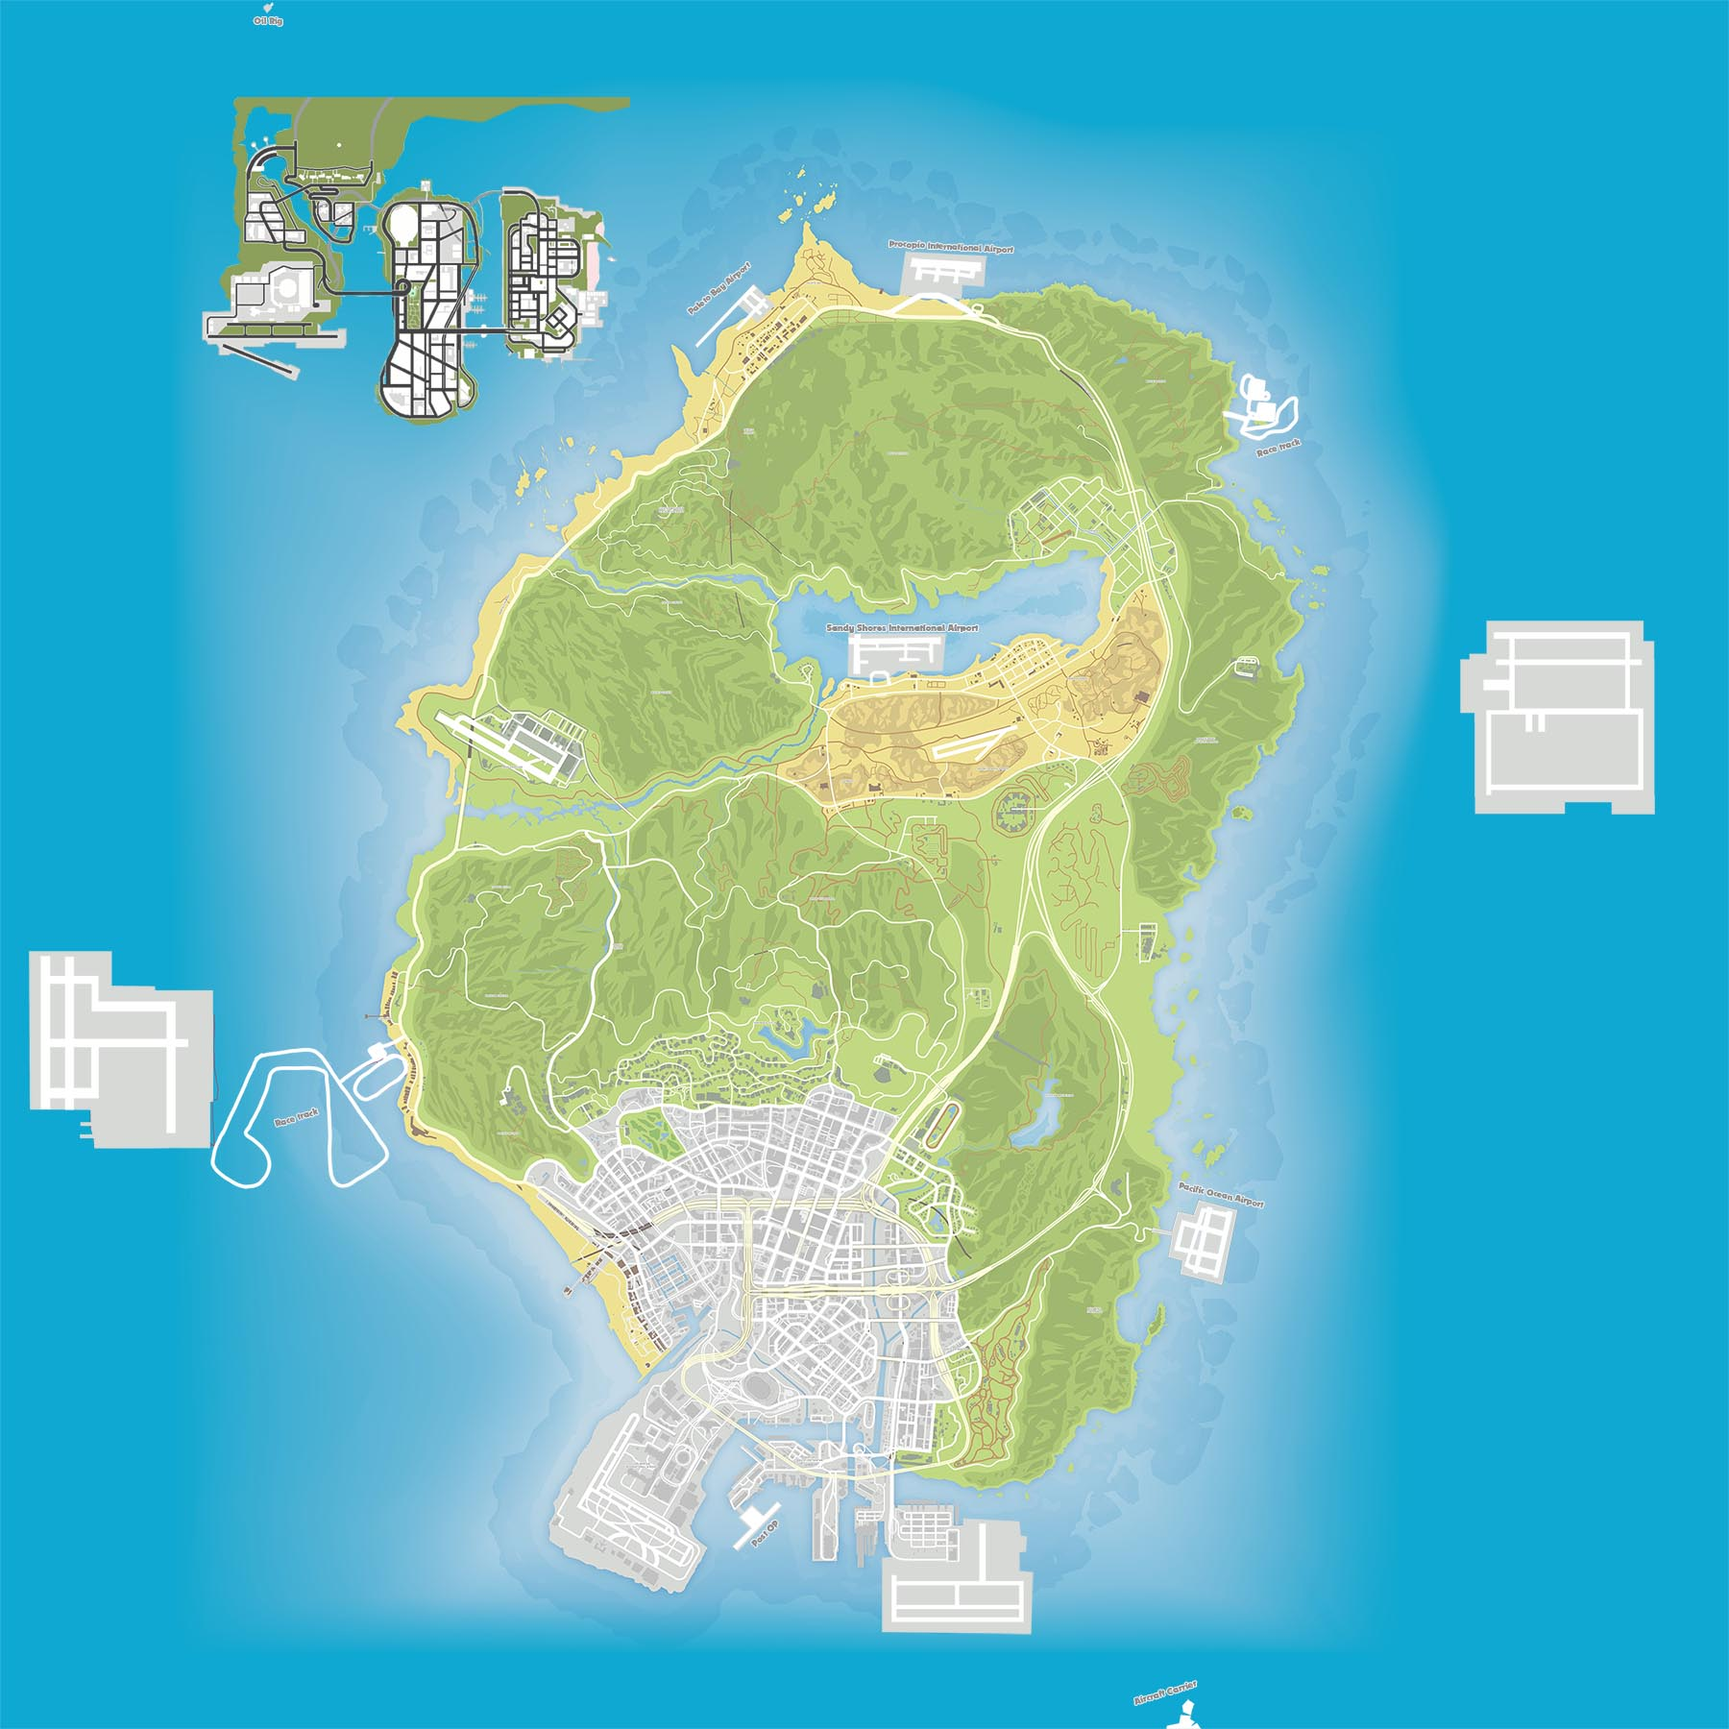
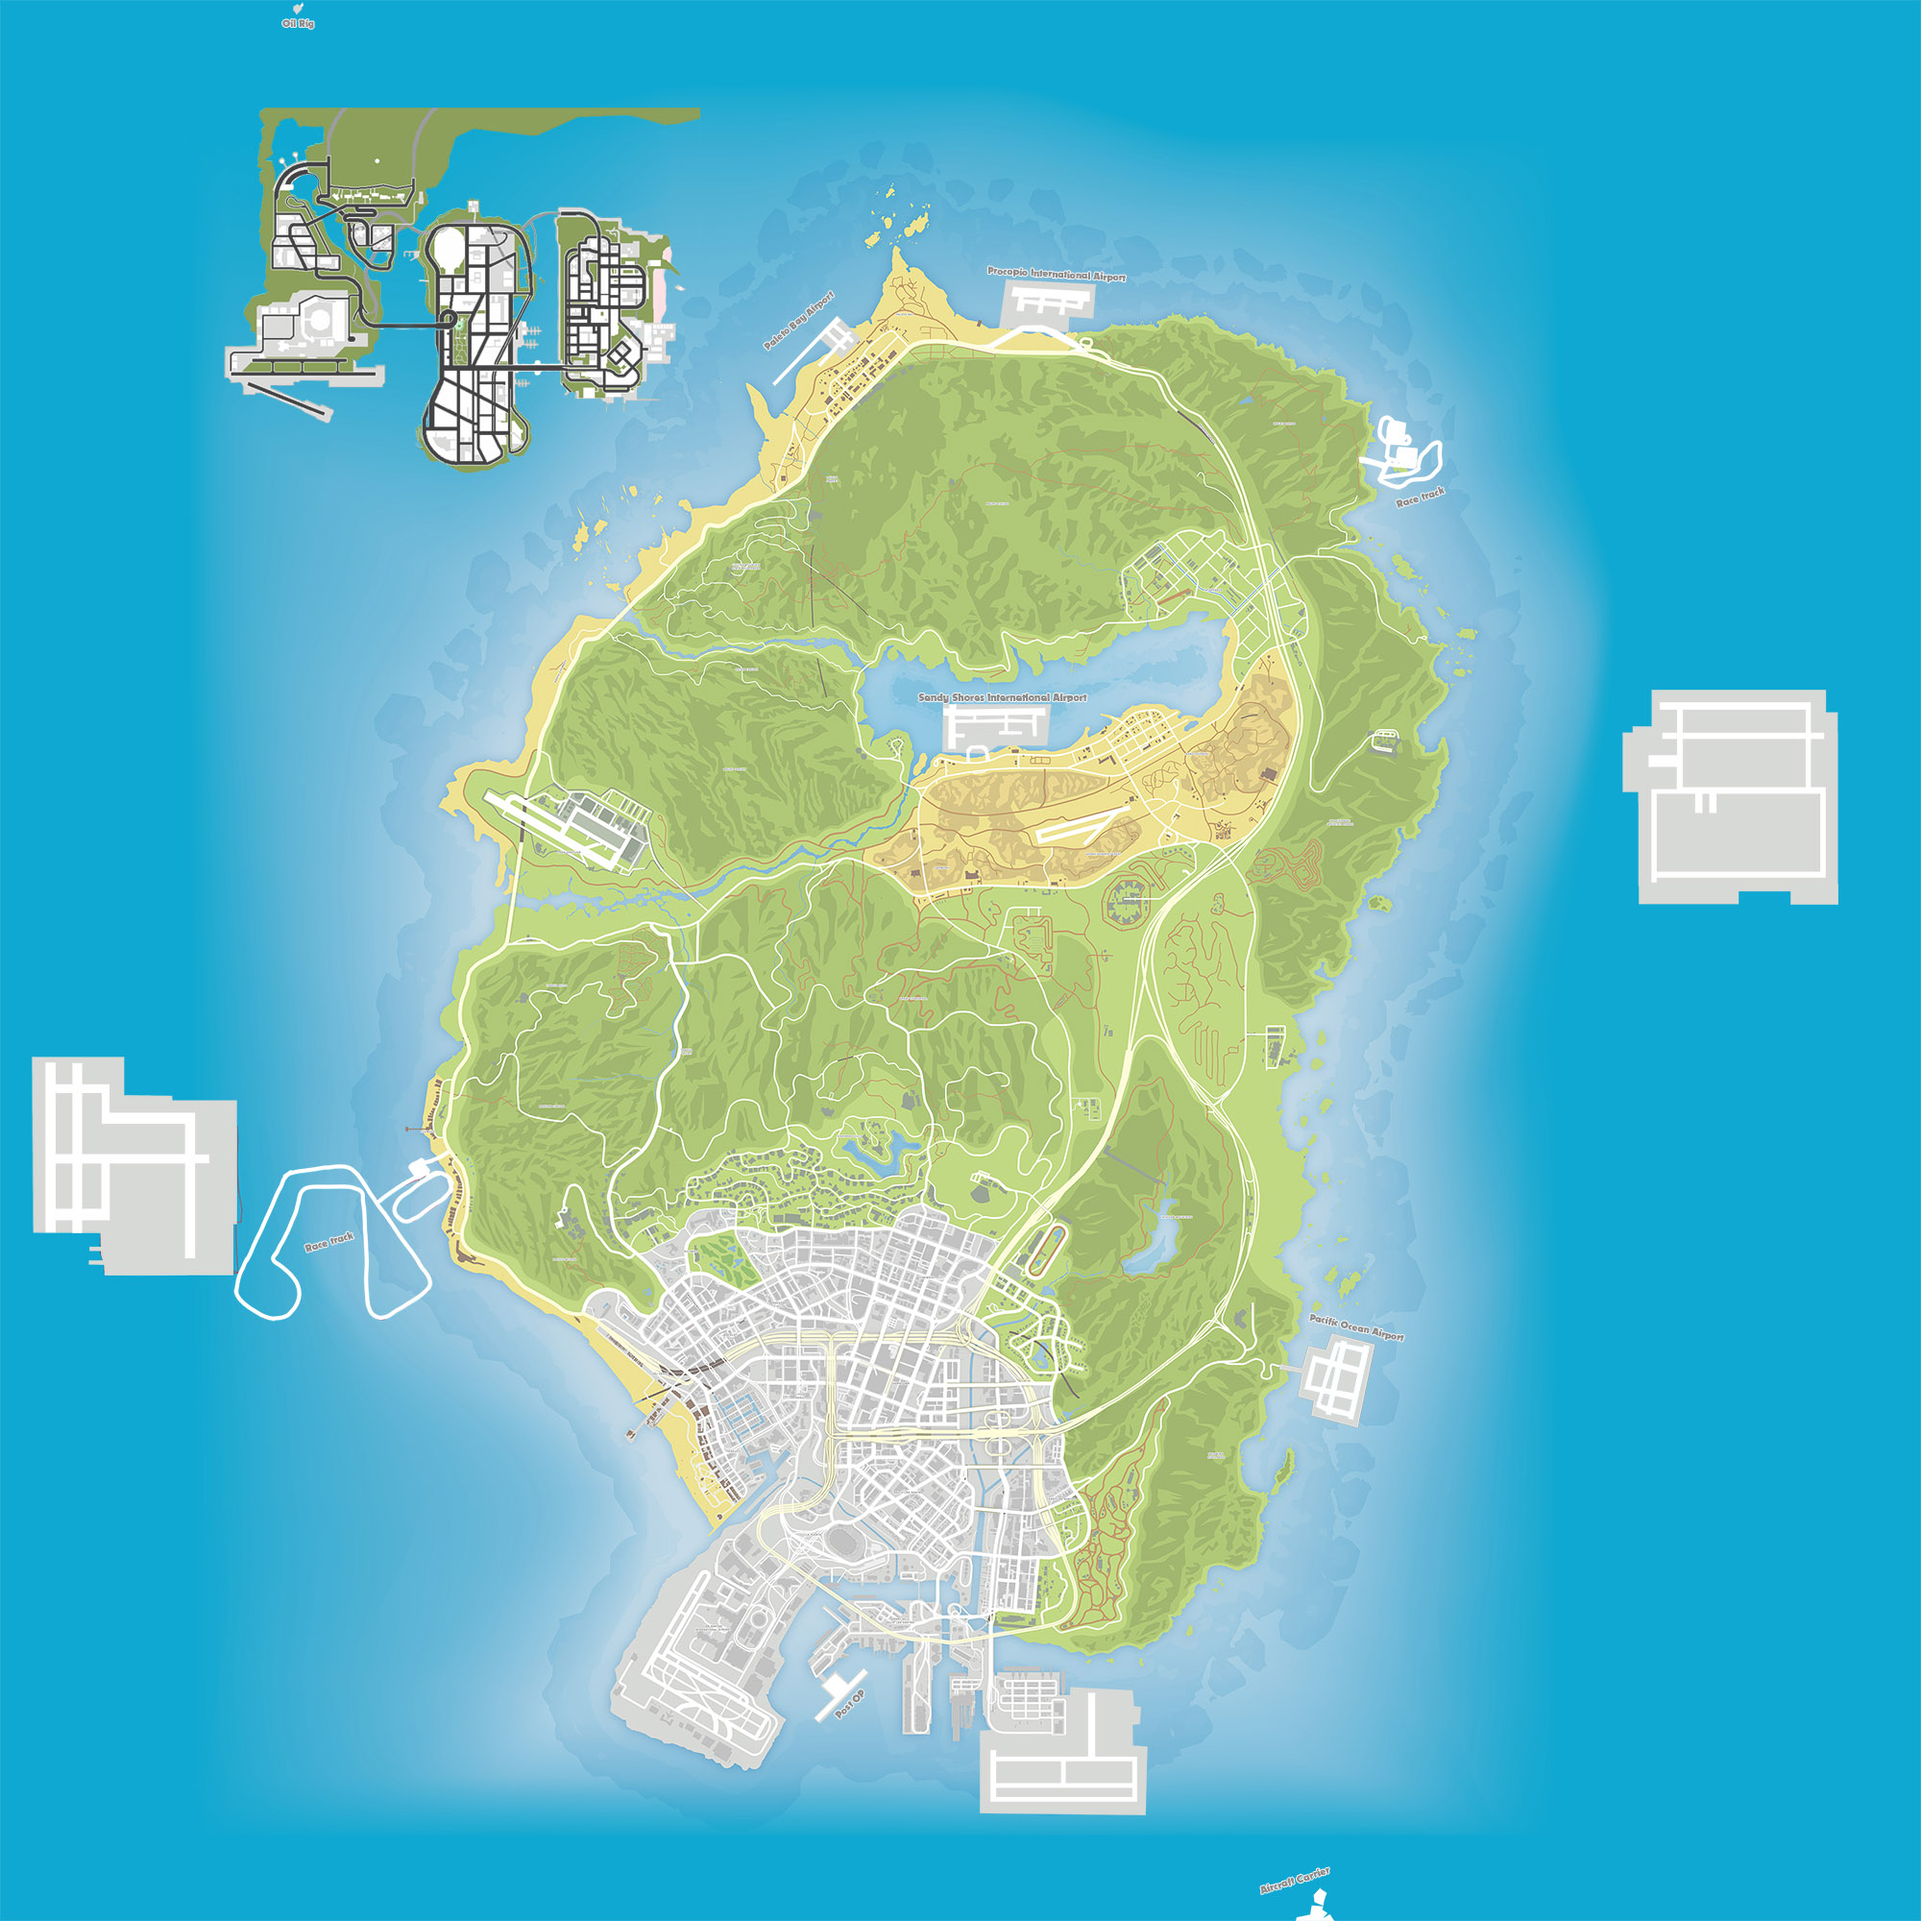
v0.0008 map

diff --git a/js/hud.js b/js/hud.js
@@ -166,8 +166,8 @@ function toogleImageQuality(dom){
     hdMap = !hdMap;
     dom.innerHTML = (hdMap === false ? "Toggle Image Quality<br>(Low)" : "Toggle Image Quality<br>(Medium)");
     
-    image = L.imageOverlay(hdMap === false ? mapFolder+"map.jpg" : mapFolder+"mobilemap.jpg", bounds).addTo(map);
-    map.fitBounds(bounds);
+    image = L.imageOverlay(hdMap === true ? mapFolder+"map.jpg" : mapFolder+"mobilemap.jpg", bounds).addTo(map);
+    // map.fitBounds(bounds);
 }
 
 
